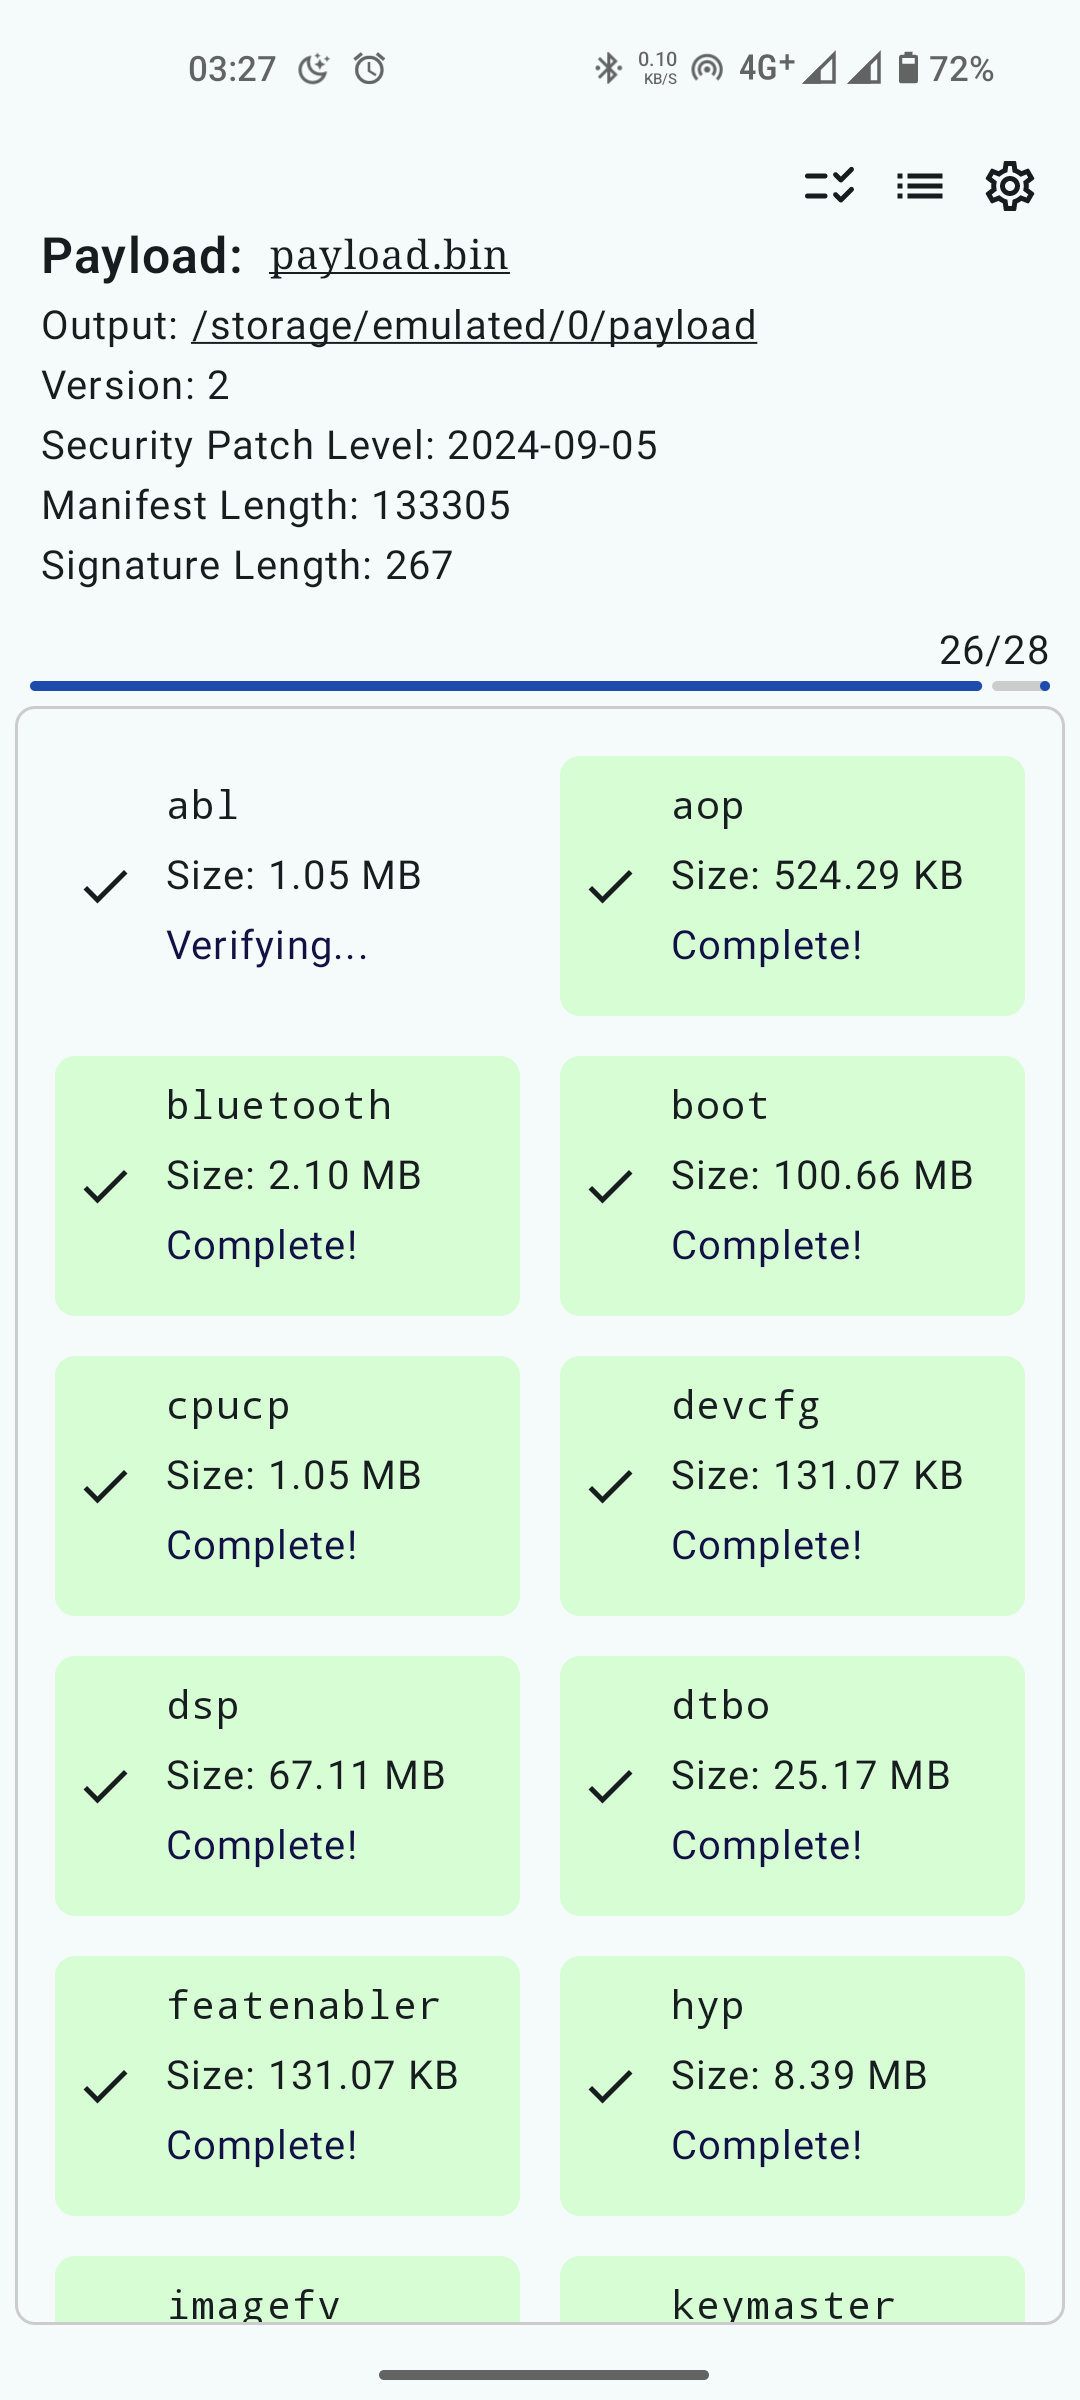
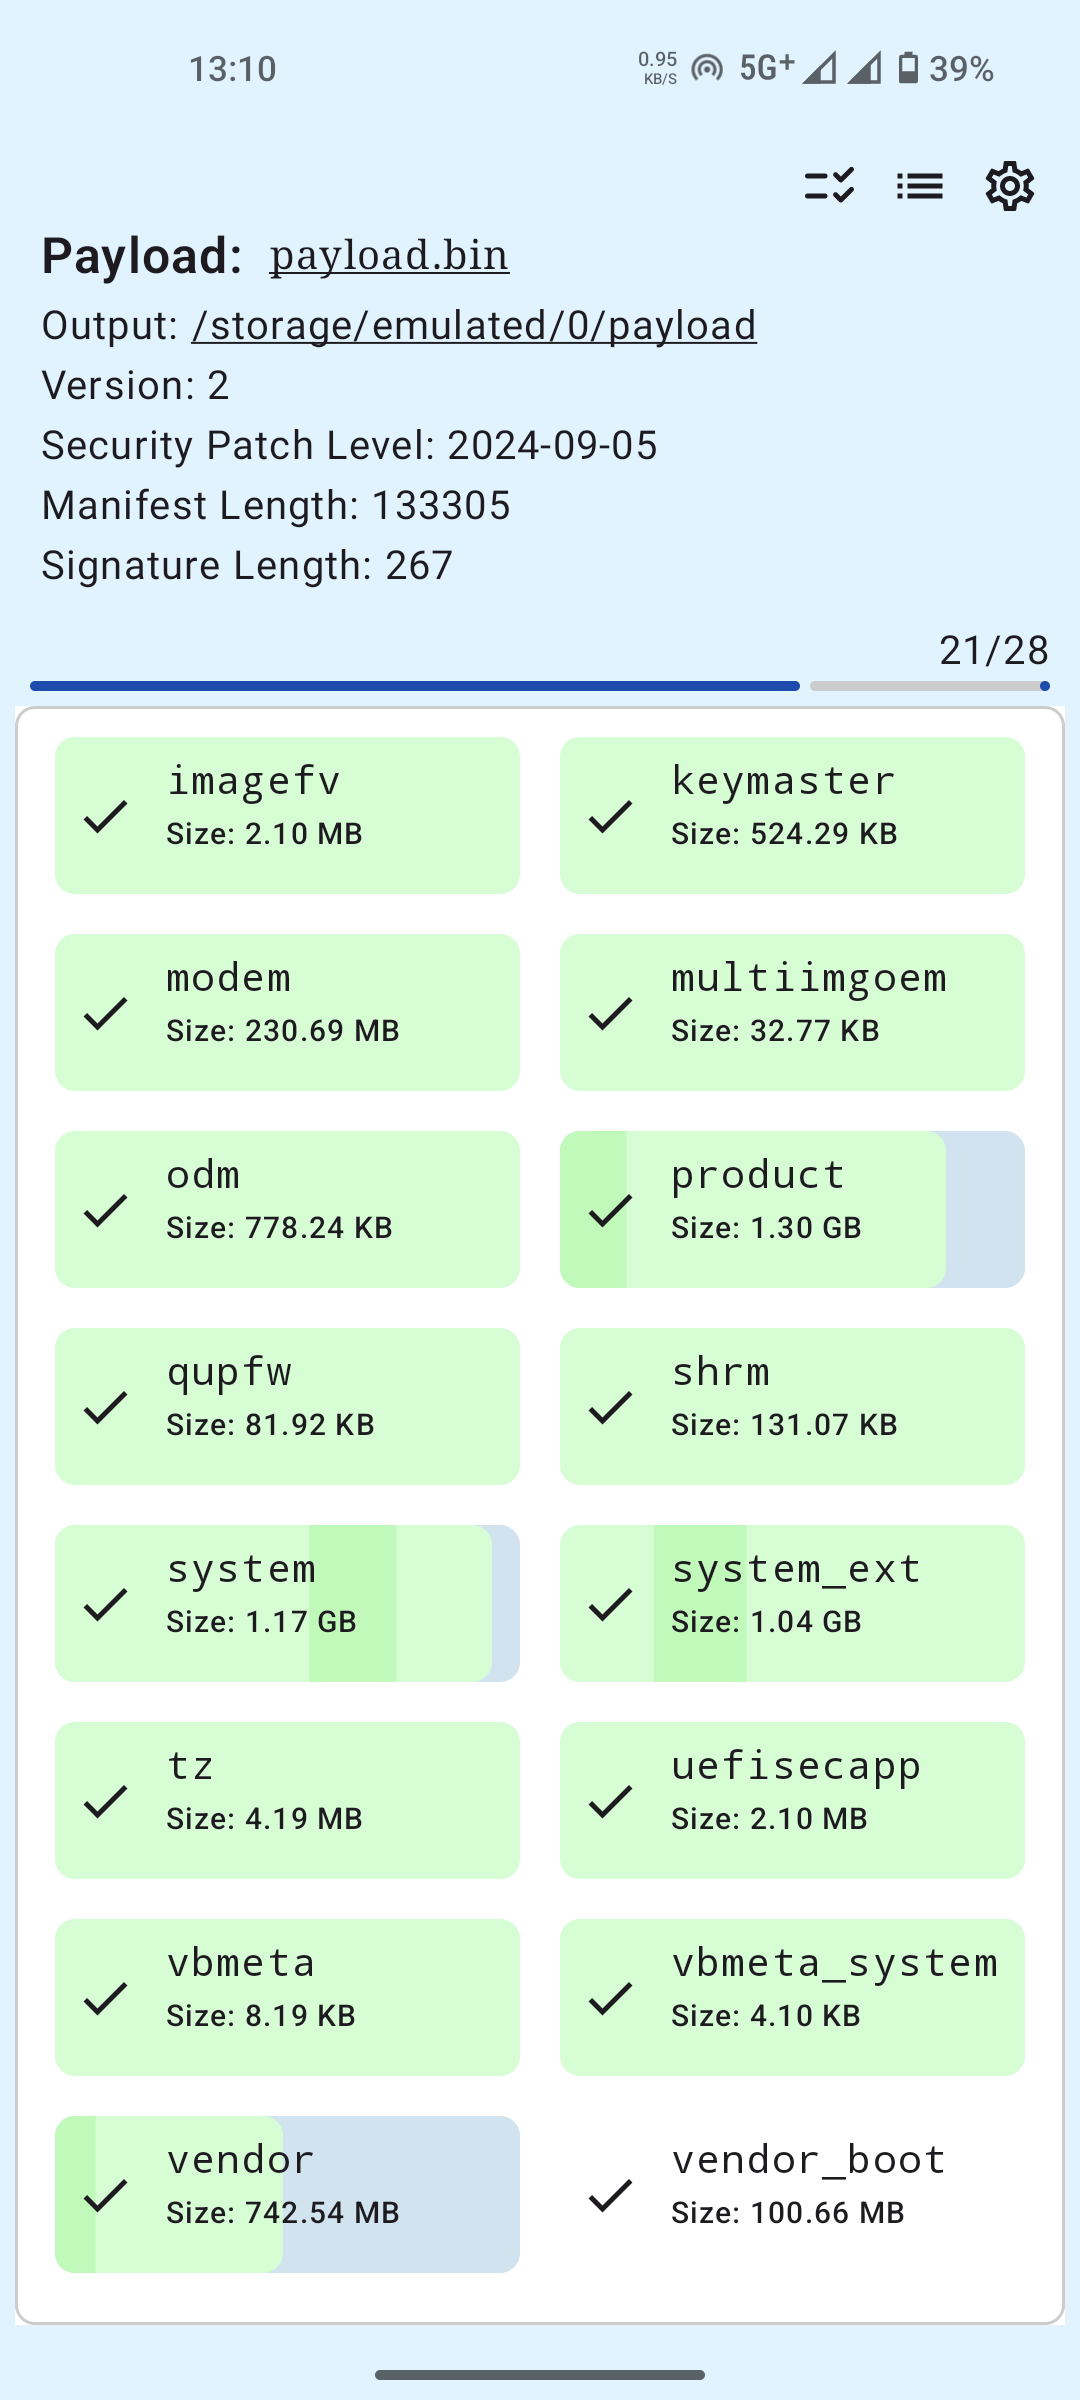
tweaked progressbar animation

diff --git a/app/src/main/java/com/rajmani7584/payloaddumper/ExtractScreen.kt b/app/src/main/java/com/rajmani7584/payloaddumper/ExtractScreen.kt
@@ -1,12 +1,18 @@
 package com.rajmani7584.payloaddumper
 
+import androidx.compose.animation.core.LinearEasing
+import androidx.compose.animation.core.RepeatMode
+import androidx.compose.animation.core.animateFloat
+import androidx.compose.animation.core.infiniteRepeatable
+import androidx.compose.animation.core.rememberInfiniteTransition
+import androidx.compose.animation.core.tween
+import androidx.compose.foundation.Canvas
 import androidx.compose.foundation.Image
 import androidx.compose.foundation.background
 import androidx.compose.foundation.border
 import androidx.compose.foundation.clickable
 import androidx.compose.foundation.gestures.detectTapGestures
 import androidx.compose.foundation.horizontalScroll
-import androidx.compose.foundation.layout.Arrangement
 import androidx.compose.foundation.layout.Box
 import androidx.compose.foundation.layout.Column
 import androidx.compose.foundation.layout.PaddingValues
@@ -39,7 +45,9 @@ import androidx.compose.runtime.remember
 import androidx.compose.runtime.setValue
 import androidx.compose.ui.Alignment
 import androidx.compose.ui.Modifier
+import androidx.compose.ui.draw.clip
 import androidx.compose.ui.geometry.Offset
+import androidx.compose.ui.geometry.Size
 import androidx.compose.ui.graphics.Color
 import androidx.compose.ui.graphics.ColorFilter
 import androidx.compose.ui.graphics.StrokeCap
@@ -78,9 +86,9 @@ fun ExtractScreen(navController: NavHostController, dataViewModel: DataViewModel
     val isExtracting by dataViewModel.isExtracting
     val isSelecting by dataViewModel.isSelecting
     val operations = dataViewModel.partitionStatus.value.filter { it.value.isSelected }.size
-    val completed = dataViewModel.partitionStatus.value.filter { it.value.isCompleted }.size
+    val completed = dataViewModel.partitionStatus.value.filter { it.value.statusCode == 3 }.size
 
-    val headerHeightPx = with(LocalDensity.current) { 130.dp.toPx() }
+    val headerHeightPx = with(LocalDensity.current) { 120.dp.toPx() }
     val minHeightPx = with(LocalDensity.current) { 0.dp.toPx() }
     val headerHeight = remember { mutableFloatStateOf(headerHeightPx) }
 
@@ -119,7 +127,8 @@ fun ExtractScreen(navController: NavHostController, dataViewModel: DataViewModel
                             launchSingleTop = true
                             restoreState = true
                         }
-                    }), textDecoration = TextDecoration.Underline)
+                    }), textDecoration = TextDecoration.Underline
+                )
                 LaunchedEffect(outputDirectory) {
                     scroll.animateScrollTo(scroll.maxValue)
                 }
@@ -130,7 +139,11 @@ fun ExtractScreen(navController: NavHostController, dataViewModel: DataViewModel
             Text("Signature Length: ${payload?.signatureLength}")
         }
         if (isExtracting) {
-            Column(Modifier.fillMaxWidth().padding(horizontal = 12.dp)) {
+            Column(
+                Modifier
+                    .fillMaxWidth()
+                    .padding(horizontal = 12.dp)
+            ) {
                 Text(
                     "$completed/$operations",
                     textAlign = TextAlign.End,
@@ -138,7 +151,9 @@ fun ExtractScreen(navController: NavHostController, dataViewModel: DataViewModel
                 )
                 LinearProgressIndicator(
                     completed.toFloat().div(operations),
-                    modifier = Modifier.height(4.dp).fillMaxWidth(),
+                    modifier = Modifier
+                        .height(4.dp)
+                        .fillMaxWidth(),
                     strokeCap = StrokeCap.Round,
                     trackColor = Color.LightGray,
                     color = Color(0xFF1D4CAD)
@@ -220,19 +235,21 @@ fun PartitionCard(dataViewModel: DataViewModel, partition: Partition) {
 
         val backgroundColor = when {
             it.isSelected && isSelecting -> if (isDarkTheme) Color(0xFF48474C) else Color(0xFFD1E3EE)
-            it.hasFailed -> MaterialTheme.colorScheme.errorContainer
-            it.isCompleted -> if (isDarkTheme) Color(0xFF254125) else Color(0xFFD7FDD5)
-            else -> MaterialTheme.colorScheme.surface
+            else -> when (it.statusCode) {
+                1 -> if (isDarkTheme) Color(0xFF48474C) else Color(0xFFD1E3EE) // in progress
+                3 -> if (isDarkTheme) Color(0xFF254125) else Color(0xFFD7FDD5) // completed
+                4 -> MaterialTheme.colorScheme.errorContainer //failed
+                else -> MaterialTheme.colorScheme.surface //default / verifying
+            }
         }
-
-        Box (
+        Box(
             modifier = Modifier
                 .padding(8.dp)
                 .fillMaxWidth()
                 .background(backgroundColor, RoundedCornerShape(8.dp))
                 .border(
                     1.dp,
-                    if (it.isSelected || it.isCompleted || it.hasFailed) Color.Transparent else Color.Gray,
+                    if (it.isSelected || it.statusCode != null) Color.Transparent else Color.Gray,
                     RoundedCornerShape(8.dp)
                 )
                 .pointerInput(Unit) {
@@ -268,7 +285,11 @@ fun PartitionCard(dataViewModel: DataViewModel, partition: Partition) {
                     )
                 }
         ) {
-            Box(Modifier.matchParentSize()) { Box(Modifier.fillMaxHeight().fillMaxWidth(it.progress.toFloat().div(100)).background(if (isDarkTheme) Color(0xFF254125) else Color(0xFFD7FDD5), RoundedCornerShape(8.dp))) }
+            if (it.statusCode.let { it == 1 || it == 2 }) {
+                Box(Modifier.matchParentSize()) {
+                    AnimatedProgressBarWithHighlight(it.progress.toFloat(), isDarkTheme)
+                }
+            }
             Row(
                 verticalAlignment = Alignment.CenterVertically,
                 modifier = Modifier.fillMaxSize()
@@ -280,18 +301,23 @@ fun PartitionCard(dataViewModel: DataViewModel, partition: Partition) {
                     contentDescription = "Drive",
                     Modifier.padding(8.dp)
                 )
-                Column(Modifier.padding(start = 4.dp, top = 8.dp, bottom = 16.dp).fillMaxSize()) {
-                    val status = when(it.statusCode) {
-                        0 -> "Verifying..."
-                        1 -> "Complete!"
-                        2 -> "Failed!"
-                        else -> ""
-                    }
-                    Text(partition.name, fontFamily = FontFamily.Monospace, maxLines = 1)
+                Column(
+                    Modifier
+                        .padding(start = 4.dp, top = 8.dp, bottom = 16.dp)
+                        .fillMaxSize()
+                ) {
+                    Text(
+                        partition.name,
+                        fontFamily = FontFamily.Monospace,
+                        style = MaterialTheme.typography.bodyLarge,
+                        maxLines = 1
+                    )
                     Spacer(Modifier.height(4.dp))
-                    Text("Size: ${Utils.parseSize(partition.size)}")
-                    Spacer(Modifier.height(4.dp))
-                    if (status.isNotEmpty()) Text(status, color = Color(0xFF121144), modifier = Modifier.padding(end = 6.dp), maxLines = 1)
+                    Text(
+                        "Size: ${Utils.parseSize(partition.size)}",
+                        maxLines = 1,
+                        style = MaterialTheme.typography.labelMedium
+                    )
                 }
             }
         }
@@ -300,6 +326,59 @@ fun PartitionCard(dataViewModel: DataViewModel, partition: Partition) {
             it.message,
             modifier = Modifier.fillMaxWidth()
         ) { showInfo = false }
+    }
+}
+
+@Composable
+fun AnimatedProgressBarWithHighlight(
+    progress: Float = 100f,
+    isDarkTheme: Boolean
+) {
+    val backgroundColor = if (isDarkTheme) Color(0xFF254125) else Color(0xFFD7FDD5)
+    val highlightColor = if (isDarkTheme) Color(0xFF406F40) else Color(0xFFACF5A2)
+
+    val highlightWidthFraction = 0.2f // 20% of the progress bar width
+    val infiniteTransition = rememberInfiniteTransition(label = "")
+    val animatedOffset = infiniteTransition.animateFloat(
+        initialValue = 0f,
+        targetValue = 1f,
+        animationSpec = infiniteRepeatable(
+            animation = tween(durationMillis = 1000, easing = LinearEasing),
+            repeatMode = RepeatMode.Restart,
+        ), label = ""
+    )
+    Box(
+        modifier = Modifier
+            .fillMaxSize()
+    ) {
+        Box(
+            modifier = Modifier
+                .fillMaxWidth(progress.div(100))
+                .fillMaxHeight()
+                .clip(RoundedCornerShape(8.dp))
+                .background(backgroundColor)
+        )
+        Box(
+            modifier = Modifier
+                .fillMaxHeight()
+                .fillMaxWidth(progress.div(100))
+                .clip(RoundedCornerShape(8.dp))
+        ) {
+            Canvas(
+                modifier = Modifier.fillMaxSize()
+            ) {
+                val totalWidth = size.width
+                val highlightWidth = totalWidth * highlightWidthFraction
+                val highlightStart =
+                    animatedOffset.value * (totalWidth + highlightWidth) - highlightWidth
+
+                drawRect(
+                    color = highlightColor.copy(.5f),
+                    topLeft = Offset(highlightStart, 0f),
+                    size = Size(highlightWidth, size.height)
+                )
+            }
+        }
     }
 }
 

diff --git a/app/src/main/java/com/rajmani7584/payloaddumper/DataViewModel.kt b/app/src/main/java/com/rajmani7584/payloaddumper/DataViewModel.kt
@@ -20,6 +20,7 @@ import kotlinx.coroutines.flow.stateIn
 import kotlinx.coroutines.launch
 import kotlinx.coroutines.sync.Semaphore
 import kotlinx.coroutines.sync.withPermit
+import kotlinx.coroutines.withContext
 import java.io.File
 
 
@@ -105,7 +106,7 @@ class DataViewModel(application: Application) : AndroidViewModel(application) {
         _payloadInfo.value = null
         _isSelecting.value = false
         _isExtracting.value = false
-        CoroutineScope(Dispatchers.IO).launch {
+        viewModelScope.launch(Dispatchers.IO) {
             _isLoading.value = true
             _payloadError.value = null
             delay(500)
@@ -173,14 +174,16 @@ class DataViewModel(application: Application) : AndroidViewModel(application) {
         _isExtracting.value = true
         _isSelecting.value = false
 
-        CoroutineScope(Dispatchers.IO).extractOnThread(
+        viewModelScope.extractOnThread(
             partitionStatus,
             concurrency.value
         ) { name, status ->
-            extractSelected(name, status)
-            if (status.hasFailed) {
-                status.output?.let {
-                    File(it).delete()
+            withContext(Dispatchers.IO) {
+                extractSelected(name, status)
+                if (status.statusCode == 4) {
+                    status.output?.let {
+                        File(it).delete()
+                    }
                 }
             }
         }.invokeOnCompletion {
@@ -191,10 +194,10 @@ class DataViewModel(application: Application) : AndroidViewModel(application) {
         }
     }
 
-    private fun <K, T, R> CoroutineScope.extractOnThread(
-        list: Map<K, T>,
+    private fun <K, V, F> CoroutineScope.extractOnThread(
+        list: Map<K, V>,
         thread: Int,
-        function: suspend (K, T) -> R
+        function: suspend (K, V) -> F
     ): Job {
         val semaphore = Semaphore(thread)
 
@@ -210,10 +213,6 @@ class DataViewModel(application: Application) : AndroidViewModel(application) {
     }
 
     fun extractSelected(name: String, status: PartitionStatus) {
-        updatePartitionStatus(
-            name,
-            status.copy(progress = 0, hasFailed = false, isCompleted = false)
-        )
 
         payloadPath.value?.let { path ->
             val outputName = Utils.setupPartitionName(outputDirectory.value, name, 0)
@@ -228,7 +227,8 @@ class DataViewModel(application: Application) : AndroidViewModel(application) {
                         name,
                         status.copy(
                             progress = it.toInt(),
-                            message = "Extracting $name as $out ($it%)"
+                            message = "Extracting $name as $out ($it%)",
+                            statusCode = 1
                         )
                     )
                 },
@@ -236,16 +236,15 @@ class DataViewModel(application: Application) : AndroidViewModel(application) {
                     when (it) {
                         0 -> updatePartitionStatus(
                             name,
-                            status.copy(message = "Verifying", statusCode = 0)
+                            status.copy(message = "Verifying", statusCode = 2, progress = 100)
                         )
 
                         1 -> updatePartitionStatus(
                             name,
                             status.copy(
                                 message = "Extracted to $out",
-                                statusCode = 1,
-                                isCompleted = true,
-                                hasFailed = false
+                                statusCode = 3,
+                                progress = 100
                             )
                         )
 
@@ -253,9 +252,8 @@ class DataViewModel(application: Application) : AndroidViewModel(application) {
                             name,
                             status.copy(
                                 message = "Hash mismatch error!",
-                                statusCode = 2,
-                                isCompleted = false,
-                                hasFailed = true
+                                statusCode = 4,
+                                progress = 100
                             )
                         )
                     }
@@ -265,9 +263,7 @@ class DataViewModel(application: Application) : AndroidViewModel(application) {
                     name,
                     status.copy(
                         message = it.message ?: "Unknown error",
-                        statusCode = 2,
-                        isCompleted = false,
-                        hasFailed = true
+                        statusCode = 4
                     )
                 )
             }

diff --git a/app/src/main/java/com/rajmani7584/payloaddumper/PayloadDumper.kt b/app/src/main/java/com/rajmani7584/payloaddumper/PayloadDumper.kt
@@ -67,4 +67,4 @@ class OnRustCallback(private val onProgress: (Long) -> Unit, private val onVerif
 
 data class Payload (val name: String, val version: String, val manifestLength: String, val signatureLength: String, val securityPatch: String, val partitions: List<Partition>)
 data class Partition (val name: String, val size: Float, val hash: String)
-data class PartitionStatus (val name: String, val progress: Int, val message: String, val output: String?, val statusCode: Int?, val isSelected: Boolean = false, val isCompleted: Boolean = false, val hasFailed: Boolean = false)
+data class PartitionStatus (val name: String, val progress: Int, val message: String, val output: String?, val statusCode: Int?, val isSelected: Boolean = false)

diff --git a/README.md b/README.md
@@ -8,12 +8,11 @@
 
 </div>
 
-### Screenshot:
+### Screenshots:
 
 <div style="display: flex">
   <img width="280px" src="./screenshots/screenshot-1.png" />
   <img width="280px" src="./screenshots/screenshot-2.png"/>
-  <img width="280px" src="./screenshots/screenshot-3.png"/>
 </div>
 
 ### Tested on <a href="https://www.projectmatrixx.org/">MatrixxOS</a> for Nothing Phone 1 (Spacewar)
@@ -23,6 +22,7 @@
 + <s>Add hashing to check extracted images integrity</s> (Added)
 + <s>Add more architectures</s> (Added)
 + <s>Add support to extract from zip file (currently payload.bin only is supported)</s> (Added)
++ Add an option to select more images while previous one still in progress
 
 ## Credit
 + https://github.com/rajmani7584/payload-dumper-android-rust - native library
